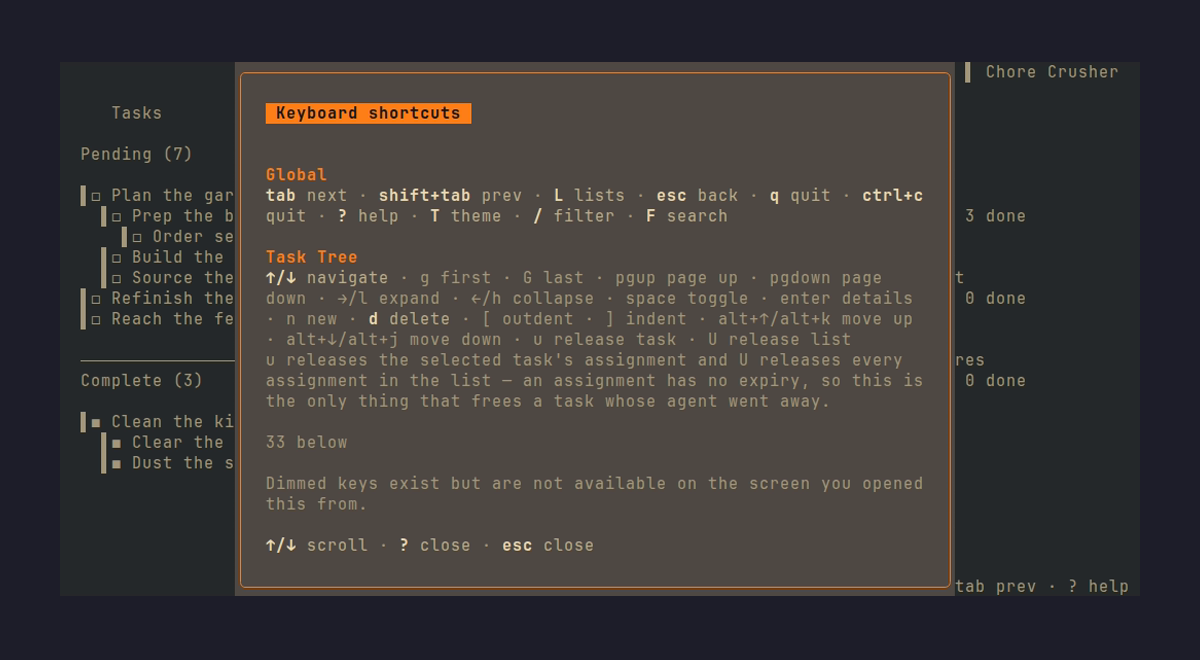
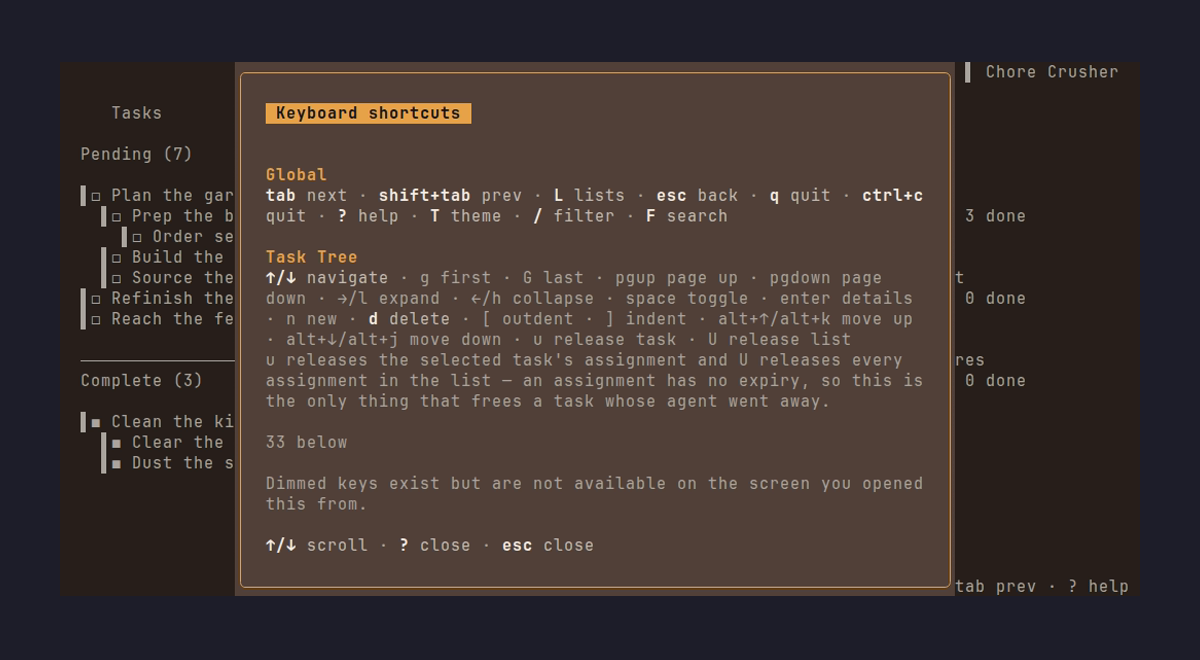
Fixes bug on themes

diff --git a/src/cli/root_test.go b/src/cli/root_test.go
@@ -4,8 +4,11 @@ import (
 	"encoding/json"
 	"io"
 	"os"
+	"path/filepath"
 	"strings"
 	"testing"
+
+	"github.com/filipemolina/chore-crusher/src/appstyles"
 )
 
 // runCLI executes the root command with args against a store rooted at
@@ -111,6 +114,38 @@ func TestExecuteExitCodes(t *testing.T) {
 	}
 	if code, _, _ := runCLI(t, data, "tasks", "01ARZ"); code != 1 {
 		t.Errorf("tasks of missing list: exit %d, want 1", code)
+	}
+}
+
+// TestSavedThemeAppliedAtStartup pins the read half of the theme round
+// trip: the picker's Enter writes theme: to config.yaml (cmds.ApplyTheme),
+// and the TUI boot path must apply it — without the read half a chosen
+// theme dies with the process. The TUI launch itself fails for lack of a
+// TTY (exit 1, as TestExecuteExitCodes pins), but only after the saved
+// theme has been activated, so the assertion on the global Active theme
+// holds on the failure path too.
+func TestSavedThemeAppliedAtStartup(t *testing.T) {
+	data := t.TempDir()
+	cfgHome := t.TempDir()
+	t.Setenv("XDG_CONFIG_HOME", cfgHome)
+
+	dir := filepath.Join(cfgHome, "chore-crusher")
+	if err := os.MkdirAll(dir, 0o755); err != nil {
+		t.Fatalf("MkdirAll: %v", err)
+	}
+	if err := os.WriteFile(filepath.Join(dir, "config.yaml"),
+		[]byte("theme: catppuccin-mocha\n"), 0o644); err != nil {
+		t.Fatalf("WriteFile: %v", err)
+	}
+
+	appstyles.SetTheme(appstyles.DefaultTheme)
+	defer appstyles.SetTheme(appstyles.DefaultTheme)
+
+	if code, _, _ := runCLI(t, data); code != 1 {
+		t.Fatalf("TUI launch: exit %d, want 1 (no TTY)", code)
+	}
+	if appstyles.Active.Name != "catppuccin-mocha" {
+		t.Errorf("Active theme = %q, want the saved %q", appstyles.Active.Name, "catppuccin-mocha")
 	}
 }
 

diff --git a/src/cli/root.go b/src/cli/root.go
@@ -13,6 +13,7 @@ import (
 	tea "charm.land/bubbletea/v2"
 	"github.com/spf13/cobra"
 
+	"github.com/filipemolina/chore-crusher/src/appstyles"
 	"github.com/filipemolina/chore-crusher/src/config"
 	"github.com/filipemolina/chore-crusher/src/constants"
 	"github.com/filipemolina/chore-crusher/src/model"
@@ -95,6 +96,13 @@ marks the task with that id complete (cascading to descendants).`,
 			if err != nil {
 				return domainError(err)
 			}
+			// A saved theme preference wins over the compiled default: the
+			// picker's Enter writes theme: to config.yaml (cmds.ApplyTheme),
+			// and this is the read half of that round trip — without it a
+			// chosen theme dies with the process. An empty or unknown name
+			// leaves DefaultTheme in effect (SetTheme only assigns registered
+			// names).
+			appstyles.SetTheme(cfg.Theme)
 			m := model.GetInitialModel(s, cfg)
 			p := tea.NewProgram(m)
 			if _, err := p.Run(); err != nil {

diff --git a/src/appstyles/Theme.go b/src/appstyles/Theme.go
@@ -201,10 +201,10 @@ func srgbLinearize(v float64) float64 {
 	return math.Pow((v+0.055)/1.055, 2.4)
 }
 
-// DefaultTheme is the theme a fresh AppModel starts with. Gruvbox Dark
-// (github.com/morhetz/gruvbox) is the app's default palette; catppuccin-mocha
-// and the rest remain selectable through the theme picker (docs/DESIGN.md §11).
-const DefaultTheme = "gruvbox-dark"
+// DefaultTheme is the theme a fresh AppModel starts with. Crush Ember is
+// the app's default palette; gruvbox-dark, catppuccin-mocha and the rest
+// remain selectable through the theme picker (docs/DESIGN.md §11).
+const DefaultTheme = "crush-ember"
 
 // Themes is the registry the theme picker chooses from. Every entry is built
 // through newTheme rather than a bare struct literal, so a registered theme

diff --git a/src/appstyles/Theme_test.go b/src/appstyles/Theme_test.go
@@ -64,12 +64,12 @@ func TestDefaultThemeIsRegistered(t *testing.T) {
 	}
 }
 
-// The fresh-install default is gruvbox-dark (Chore Crusher UI task).
+// The fresh-install default is crush-ember.
 // Pin the intended name, not merely that the constant happens to be a
 // registered theme, so a stray edit to DefaultTheme is caught.
-func TestDefaultThemeIsGruvboxDark(t *testing.T) {
-	if DefaultTheme != "gruvbox-dark" {
-		t.Errorf("DefaultTheme = %q, want gruvbox-dark", DefaultTheme)
+func TestDefaultThemeIsCrushEmber(t *testing.T) {
+	if DefaultTheme != "crush-ember" {
+		t.Errorf("DefaultTheme = %q, want crush-ember", DefaultTheme)
 	}
 }
 

diff --git a/src/config/config.go b/src/config/config.go
@@ -3,7 +3,7 @@
 //
 // The config file is a small YAML document:
 //
-//	theme: gruvbox-dark
+//	theme: crush-ember
 //	poll_interval_ms: 1000
 //
 // More fields will land later (docs/ROADMAP.md). The struct and the write

diff --git a/docs/STATUS.md b/docs/STATUS.md
@@ -10,7 +10,7 @@ The repo/tool/command rename is finished and all roadmap phases are in
 - Go module: `github.com/filipemolina/chore-crusher`
 - Config dir: `~/.config/chore-crusher`
 - Data dir / DB: `~/.local/share/chore-crusher/chore-crusher.db`
-- Default theme: `gruvbox-dark`
+- Default theme: `crush-ember`
 - Current tag: `v0.1.0`
 
 Phases 0–9 (scaffolding through polish/release) are complete. See
@@ -18,6 +18,19 @@ Phases 0–9 (scaffolding through polish/release) are complete. See
 post-alpha backlog.
 
 ## Latest change
+
+- **Default theme is now crush-ember, and a saved theme survives restart.**
+  `DefaultTheme` moved from `gruvbox-dark` to the app's own warm
+  `crush-ember` palette (gruvbox-dark stays selectable through `T`). It
+  also completes the theme persistence round trip: the picker's Enter
+  always wrote `theme:` to `~/.config/chore-crusher/config.yaml`
+  (`cmds.ApplyTheme`), but the TUI boot path never read it back, so a
+  chosen theme died with the process. The root command's TUI path now
+  applies `cfg.Theme` via `appstyles.SetTheme` before the first frame
+  (an empty or unknown name falls back to the default). Tests:
+  `TestDefaultThemeIsCrushEmber` (appstyles),
+  `TestSavedThemeAppliedAtStartup` (cli). Demo media regenerated under
+  the new default.
 
 - **H13: Session-end claim release scoped to agent identity.** The MCP server enhancement plan (`§3.1`)
   promised that agent-claim spinners would be removed when the MCP session

diff --git a/docs/ROADMAP.md b/docs/ROADMAP.md
@@ -326,6 +326,14 @@ saves it via the existing `RenameTask`, and dirty detection covers it — which
 closes the "no way to edit a task from the TUI" bug. What did not land is the
 dedicated `e` shortcut that would open Details with the title already focused.
 
+**Default theme and theme persistence** — *shipped.* `DefaultTheme` moved
+from gruvbox-dark to crush-ember (the app's own warm amber palette;
+gruvbox-dark stays selectable). It also completed the persistence round
+trip: the picker's Enter always wrote `theme:` to config.yaml, but the
+boot path never read it back, so a chosen theme died with the process.
+The TUI path now applies the saved theme before the first frame, with an
+unknown name falling back to the default.
+
 ### Sister / context
 
 **The Stack Stitcher chrome alignment** — *historical.* The chrome alignment with

diff --git a/docs/DESIGN.md b/docs/DESIGN.md
@@ -1317,9 +1317,9 @@ either, because it's the same theme, not a reinterpretation of one.
 Every `Name` string and registry key is adjusted from `stitcher-*` to
 `crush-*`, since the name is user-visible in the theme picker (`crush-dark`
 is the renamed `stitcher-dark`). **The fresh-install default is
-`"gruvbox-dark"`** — `DefaultTheme` names it, and a config with no
+`"crush-ember"`** — `DefaultTheme` names it, and a config with no
 `theme:` preference activates it; every other registered theme (including
-`crush-dark`) stays selectable through the `T` picker and as a saved
+`gruvbox-dark`) stays selectable through the `T` picker and as a saved
 `theme:` value.
 
 ## 12. Visual coherence: the UI contract

diff --git a/README.md b/README.md
@@ -98,7 +98,7 @@ On first launch, Chore Crusher creates:
 - Data: `~/.local/share/chore-crusher/chore-crusher.db` (SQLite store)
 - Config: `~/.config/chore-crusher/config.yaml` (theme, layout)
 
-The default list `Inbox` is created automatically under `gruvbox-dark` theme.
+The default list `Inbox` is created automatically under `crush-ember` theme.
 
 ---
 
